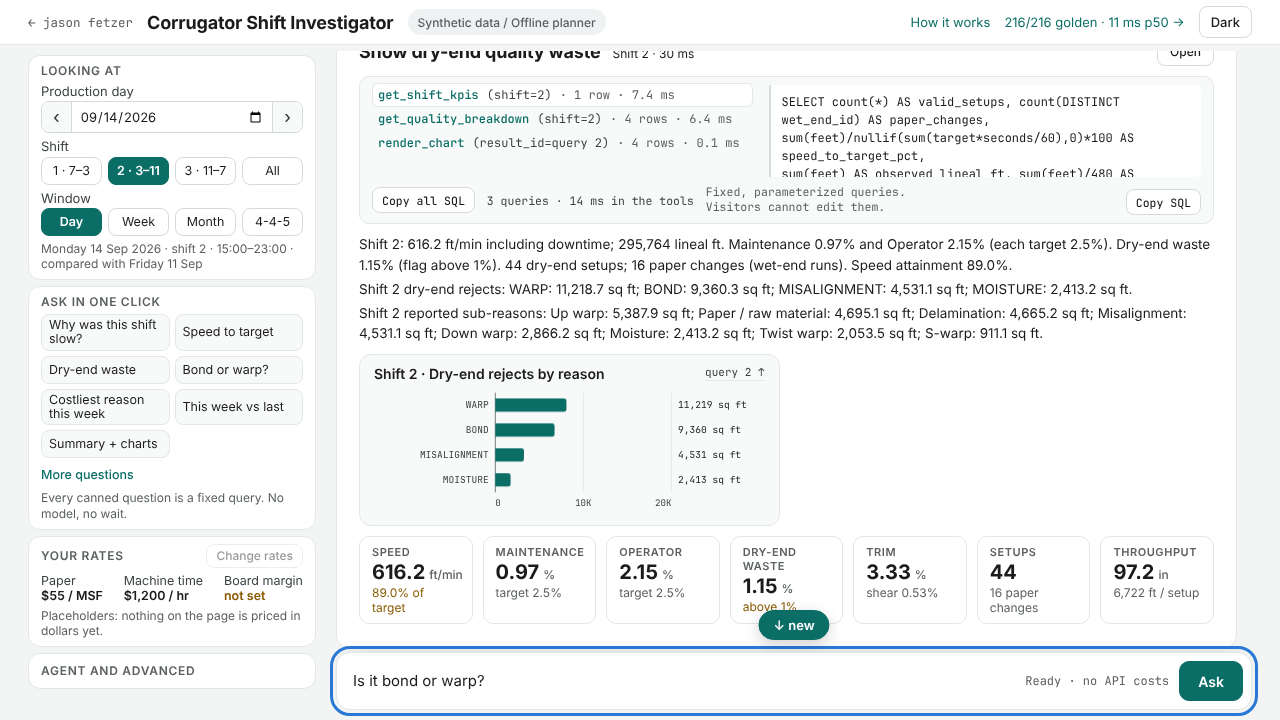
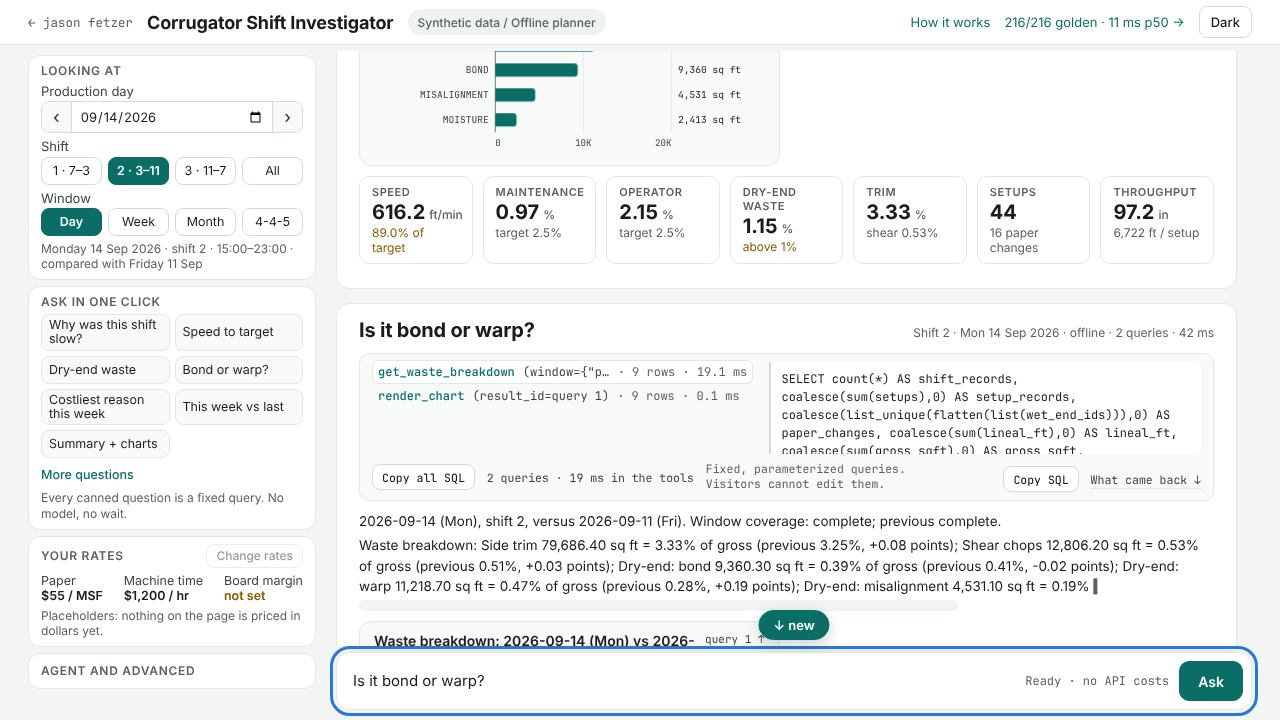
Chat flow review fixes: small scrolls stop the follow, reload within the rate limit (#86)
- Any move up stops the follow, so a trackpad's few-pixel steps are never
  pulled back; the pill comes once the reader is more than 80 px away and more
  has arrived, and scrolling back to within 80 px resumes. A unit case walks
  eight 15-px steps across frames; layout_check uses six small wheel notches.
- A reload replays only the newest cards (a quarter of the visitor's rate
  limit, at most 8): each replay is a URL answer the server counts. Older
  cards come back as title lines and load by GET when opened.
- An earlier card drawn into its own containers no longer schedules the
  page's trace, which drew the open card's trace twice when both shared a
  result (an analyst plan refused behind its source).
- Between 851 and 999 px wide the header drops the mode badge so it stays one
  row and the rail fits at 720 px tall.
- Tests assert one fetch per offline question (no new fetch on the hot path).

Claude-Session: https://claude.ai/code/session_01MaBwFArCywnfJvyhw3vUVx

diff --git a/src/investigator/web/app.js b/src/investigator/web/app.js
@@ -618,7 +618,7 @@ function showResult(result) {
  for(const entry of shiftKpis)shiftTiles(entry,result,shiftKpis.length>1);
  for(const table of result.tables||[])showTable(table);
  for(const chart of result.charts)showChart(chart);
- afterPaint(()=>{if(latest!==result)return;result.trace.forEach((entry,i)=>{const row=traceRow(entry);row.id=`step-${i}`;$('trace').append(row);});});   // a newer answer already replaced the evidence: skip
+ if(!slots)afterPaint(()=>{if(latest!==result)return;result.trace.forEach((entry,i)=>{const row=traceRow(entry);row.id=`step-${i}`;$('trace').append(row);});});   // a newer answer already replaced the evidence: skip. An earlier card drawn into its own containers has no trail (#86)
  $('calls').textContent=`${result.status?result.status+' · ':''}${usageText(result.usage)}`;
  const ctx=node('details',undefined,'trace-context');ctx.append(node('summary','Context carried to the next question'));ctx.append(node('pre',JSON.stringify(result.context,null,2)));$('context').replaceChildren(ctx);
  updateScope();
@@ -738,7 +738,7 @@ function renderEarlier(){
   const v=entryOf(rec);
   if(settled(rec)&&v.key!==bodyKey(rec))setBody(v,drawBody(rec),bodyKey(rec));
   v.line.className='card earlier'+(rec.state==='error'?' failed':'')+(v.body?' drawn':'');v.line.setAttribute('aria-label',`Earlier answer: ${rec.title}`);
-  v.title.textContent=rec.title;v.meta.textContent=`${entryWho(rec)} · ${rec.state==='pending'?'asking…':rec.state==='error'?'failed':msText(rec.ms)}`;
+  v.title.textContent=rec.title;v.meta.textContent=`${entryWho(rec)} · ${rec.state==='pending'?'asking…':rec.state==='error'?'failed':rec.state==='stored'?'not reloaded: Open loads it':msText(rec.ms)}`;
   v.open.setAttribute('aria-label',`Open the answer to: ${rec.title}`);
   lines.push(v.line);
  }
@@ -756,7 +756,7 @@ function syncPdf(){ if(latest)$('pdf').hidden=!latest.url&&latestRun.get(latest.
 // Opening a card: an addressed answer of the current scope puts its address in the bar and the conversation follows
 // it, so the next question is a follow-up of the card on screen. A card asked under another scope keeps the rail's
 // address: the rail, not the card, is what the address encodes.
-function openCard(rec){ openId=rec.id; renderCard(); scheduleFollow(true); if(rec.state==='done'&&rec.url&&rec.epoch===sessionEpoch){ followView(rec.url,!rec.report); pushAddress(rec.url); updateScope(); } }
+function openCard(rec){ if(rec.state==='stored')replayOne(rec);   /* a card kept but not reloaded (#86) loads when it is opened */ openId=rec.id; renderCard(); scheduleFollow(true); if(rec.state==='done'&&rec.url&&rec.epoch===sessionEpoch){ followView(rec.url,!rec.report); pushAddress(rec.url); updateScope(); } }
 function focusCard(){ try{$('card-title').focus?.({preventScroll:true});}catch(e){} }   // keyboard focus follows the card when the control that had it goes away; the pane's follow rule does the scrolling (#86)
 // A settled answer's own content, into the card's containers: the open card's, or an earlier card's own (#86).
 // Returns the summary the reveal paces, for an offline answer.
@@ -796,9 +796,10 @@ function renderCard(){
 // and only #transcript scrolls. The open card is the newest, at the bottom. While it fills (skeleton, landed answer,
 // reveal steps, streamed narrative), the pane follows it: its bottom sits at the pane's bottom while it fits, and once
 // it is taller than the pane its title line stays at the top, so the answer is read from its first word. The rule
-// never scrolls up on its own. A reader who scrolls up more than FOLLOW_SLACK px stops it; a "↓ new" pill then says
-// more arrived below, and clicking it, or scrolling back down, resumes following. Asking, or opening a card, always
-// brings the open card into view.
+// never scrolls up on its own, and never pulls a reader back down: any move up, however small (a trackpad scrolls in
+// steps of a few pixels), stops it. Once the reader is more than FOLLOW_SLACK px from the newest content and more has
+// arrived, a "↓ new" pill says so; clicking it, or scrolling back down to within FOLLOW_SLACK px, resumes following.
+// Asking, or opening a card, always brings the open card into view.
 const FOLLOW_SLACK=80, FOLLOW_GAP=12;
 let following=true, unseen=false, lastTop=0, followQueued=false, followForce=false, followFresh=false;
 function paneOf(){ const p=$('transcript'); return p&&typeof p.scrollTop==='number'&&typeof p.scrollHeight==='number'&&typeof p.clientHeight==='number'?p:null; }   // null in the unit tests' layout-less stub, unless a test gives it numbers
@@ -812,8 +813,8 @@ function syncPill(){ $('new-pill').hidden=following||!unseen; }
 function follow(force=false,fresh=true){
  const p=paneOf(); if(!p)return;
  if(force){ following=true; unseen=false; }
- if(!following){ if(fresh)unseen=true; syncPill(); return; }
  const target=followTarget(p);
+ if(!following){ if(fresh&&target-p.scrollTop>FOLLOW_SLACK)unseen=true; syncPill(); return; }
  if(force||p.scrollTop<target)p.scrollTop=target;
  lastTop=p.scrollTop; syncPill();
 }
@@ -825,14 +826,14 @@ function scheduleFollow(force=false,fresh=true){
  if(followQueued)return; followQueued=true;
  requestAnimationFrame(()=>{ followQueued=false; const f=followForce, n=followFresh; followForce=followFresh=false; follow(f,n); });
 }
-// Only a move up stops the following. A scroll event is dispatched a frame after the scroll, so by then a card may have
-// landed and moved the follow point: the event of our own scroll, or of the browser's scroll anchoring (which moves
-// down when content grows above), must not read as the reader leaving. A user's scroll event always runs before the
-// frame's follow step.
+// Only a move up stops the following; the distance to the follow point decides only when it resumes. A scroll event
+// is dispatched a frame after the scroll, so by then a card may have landed and moved the follow point: the event of
+// our own scroll, or of the browser's scroll anchoring (which moves down when content grows above), is not a move up
+// and must not read as the reader leaving. A user's scroll event always runs before the frame's follow step.
 function onPaneScroll(){
  const p=paneOf(); if(!p)return;
  const top=p.scrollTop, gap=followTarget(p)-top;
- if(top<lastTop&&gap>FOLLOW_SLACK)following=false;
+ if(top<lastTop){ following=false; if(gap<=FOLLOW_SLACK)unseen=false; }
  else if(gap<=FOLLOW_SLACK){ following=true; unseen=false; }
  lastTop=top; syncPill();
 }
@@ -1073,13 +1074,16 @@ function reset(){ thread=[];openId=null;renderCard();scheduleFollow(true);saveTh
 // analyst's card as the offline answer it was asked from) with its title line, in sessionStorage: this tab only, never
 // sent anywhere. On load the address bar's card is restore()'s, as before (#20); the cards above it are GETs of their
 // own addresses, never /api/ask, and land settled, in their order. A model's narrative is not kept or replayed: its
-// card comes back as the offline answer, with the analyst button.
-const THREAD_KEY='csi-thread', THREAD_MAX=24, REPLAYABLE=/^\/(corr\/|q\?)/;   // same-origin paths only
+// card comes back as the offline answer, with the analyst button. Each replay is an answer the server counts against
+// the visitor's rate limit, so a reload fetches only the newest few (a quarter of that limit, at most REPLAY_MAX); the
+// older cards come back as their title lines, and Open loads one.
+const THREAD_KEY='csi-thread', THREAD_MAX=24, REPLAY_MAX=8, REPLAYABLE=/^\/(corr\/|q\?)/;   // same-origin paths only
+function replayBudget(){ const limit=Number(config&&config.demo_guards&&config.demo_guards.rate_limit_per_min)||0; return limit>0?Math.min(REPLAY_MAX,Math.max(1,Math.floor(limit/4))):REPLAY_MAX; }
 function tabStore(){ try{ return typeof sessionStorage!=='undefined'&&sessionStorage?sessionStorage:null; }catch(e){ return null; } }
 function replayUrl(r){ return PROVIDERS[r.mode]?((r.source&&r.source.url)||r.askUrl):(r.url||r.askUrl); }
 function saveThread(){
  const store=tabStore(); if(!store)return;
- const cards=thread.map(r=>({url:replayUrl(r),title:r.title,question:r.question,scope:{day:r.scope.day,period:r.scope.period,shift:r.scope.shift,scope:r.scope.scope},corrupt:!!r.corrupt,report:!!r.report,analysed:!PROVIDERS[r.mode]&&!!r.analysed,ms:!PROVIDERS[r.mode]&&r.state==='done'?r.ms:null}))
+ const cards=thread.map(r=>({url:replayUrl(r),title:r.title,question:r.question,scope:{day:r.scope.day,period:r.scope.period,shift:r.scope.shift,scope:r.scope.scope},corrupt:!!r.corrupt,report:!!r.report,analysed:!PROVIDERS[r.mode]&&!!r.analysed,ms:PROVIDERS[r.mode]?null:r.state==='done'?r.ms:typeof r.keepMs==='number'?r.keepMs:null}))
   .filter(c=>typeof c.url==='string'&&REPLAYABLE.test(c.url)).slice(-THREAD_MAX);
  try{ if(cards.length)store.setItem(THREAD_KEY,JSON.stringify(cards)); else store.removeItem(THREAD_KEY); }catch(e){ /* storage full or blocked: the thread is a convenience */ }
 }
@@ -1089,19 +1093,26 @@ function storedThread(){
 }
 function sameScope(rec){ const s=currentScope(); return rec.scope.day===s.day&&rec.scope.period===s.period&&rec.scope.scope===s.scope&&Number(rec.scope.shift)===s.shift&&!!rec.corrupt===$('corrupt').checked; }
 function replayThread(cards){
- for(const c of cards){
-  const rec={id:++seq,question:typeof c.question==='string'?c.question:c.url,title:typeof c.title==='string'?c.title:c.url,scope:{day:c.scope.day,period:c.scope.period,shift:Number(c.scope.shift),scope:c.scope.scope},answered:null,mode:'offline',report:!!c.report,corrupt:!!c.corrupt,epoch:-1,source:null,state:'pending',t0:clock(),ms:null,keepMs:typeof c.ms==='number'?c.ms:null,result:null,error:null,note:null,url:null,live:null,revealed:true,analysed:!!c.analysed,askUrl:c.url};
+ const from=Math.max(0,cards.length-replayBudget());
+ cards.forEach((c,i)=>{
+  const rec={id:++seq,question:typeof c.question==='string'?c.question:c.url,title:typeof c.title==='string'?c.title:c.url,scope:{day:c.scope.day,period:c.scope.period,shift:Number(c.scope.shift),scope:c.scope.scope},answered:null,mode:'offline',report:!!c.report,corrupt:!!c.corrupt,epoch:-1,source:null,state:'stored',t0:clock(),ms:null,keepMs:typeof c.ms==='number'?c.ms:null,result:null,error:null,note:null,url:null,live:null,revealed:true,analysed:!!c.analysed,askUrl:c.url};
   thread.push(rec);
-  rec.done=(async()=>{
-   try{
-    const response=await fetch(c.url,{headers:{Accept:'application/json'}}), result=await response.json();
-    if(!response.ok)throw new Error(result.error||'Request failed');
-    rec.url=result.url||null; if(rec.url&&sameScope(rec))rec.epoch=sessionEpoch;   // a card of the rail's scope opens into the conversation, as it did before the reload
-    land(rec,result);
-   }catch(error){ rec.error=error.message; rec.state='error'; settleCard(rec); }
-  })();
- }
+  if(i>=from)replayOne(rec);
+ });
  if(cards.length)renderEarlier();
+}
+function replayOne(rec){
+ rec.state='pending'; rec.t0=clock();
+ rec.done=(async()=>{
+  try{
+   const response=await fetch(rec.askUrl,{headers:{Accept:'application/json'}}), result=await response.json();
+   if(!response.ok)throw new Error(result.error||'Request failed');
+   rec.url=result.url||null; if(rec.url&&sameScope(rec))rec.epoch=sessionEpoch;   // a card of the rail's scope opens into the conversation, as it did before the reload
+   land(rec,result);
+   if(openId===rec.id&&rec.url&&rec.epoch===sessionEpoch){ followView(rec.url,!rec.report); pushAddress(rec.url); updateScope(); }   // opened while it loaded
+  }catch(error){ rec.error=error.message; rec.state='error'; settleCard(rec); }
+ })();
+ return rec.done;
 }
 $('mode').addEventListener('change',()=>{rescope();const p=provider();syncKeyLabel();$('api-key').value='';$('mode-badge').textContent=p?`Synthetic data / ${p.name} selected`:'Synthetic data / Offline planner';$('mode-help').textContent=p?(config&&config.public?`Public demo: Ask the analyst has ${p.name} choose which bounded tools to run and writes the interpretation with this site's own key under a spend cap; no visitor key is accepted. Ask and the canned questions stay offline.`:`${p.name} receives your question, bounded history and synthetic tool results. Your key passes through this local server to ${p.name} for this request, is not saved, and the field clears on submit. Live calls incur API charges. Ask and the canned questions stay offline.`):'Offline mode uses a rule-based planner for the supported example questions. No model calls or API charges.';});
 $('reset').addEventListener('click',reset);$('day').addEventListener('change',dayChanged);$('day-prev').addEventListener('click',()=>stepDay(-1));$('day-next').addEventListener('click',()=>stepDay(1));$('corrupt').addEventListener('change',rescope);$('shift').addEventListener('change',rescope);$('scope').addEventListener('change',rescope);$('period').addEventListener('change',periodChanged);

diff --git a/src/investigator/web/style.css b/src/investigator/web/style.css
@@ -404,6 +404,7 @@ footer{margin-top:48px;padding-top:18px;border-top:1px solid var(--rule);font-fa
  td,th{min-width:80px}
 }
 @media(min-width:851px) and (max-width:1179px){.rail{flex-basis:264px}.shell{padding:16px 16px 40px;gap:16px}.shell-page .shell{padding:12px 16px max(12px,env(safe-area-inset-bottom,0px))}}
+@media(min-width:851px) and (max-width:999px){.shell-page .badge{display:none}}   /* the header stays one row, as on a phone; the rail's mode note says the same (#86) */
 @media(prefers-reduced-motion:no-preference){.answer.skeleton .skel,.answer.skeleton .skel-chart{animation:skel 1.1s ease-in-out infinite alternate}}
 @keyframes skel{from{opacity:1}to{opacity:.55}}
 @media(prefers-reduced-motion:no-preference){button{transition:filter .15s}}

diff --git a/docs/TESTING.md b/docs/TESTING.md
@@ -26,7 +26,7 @@ The implementation follow-up passed 106 backend tests plus UI, syntax and whites
 | `test_openai_provider.py` | Scripted provider responses, schema/payload handling, key hygiene, time/call limits and budget reservations |
 | `test_server.py` | Local HTTP protections, daily round trip, retained-report access, control references, `/api/config` calendar fields, weekend and out-of-range day refusals; the URL path (issue #20): `GET /q` redirects to the canonical address, which answers as the page, as `.json` and as a PDF with the same guards and no session, refuses like the POST path, carries follow-ups (`after=`), the period report and the bad record, and counts against the request window |
 | `test_urls.py` | The URL grammar: every golden question round-trips through its canonical address to an identical answer, the address is idempotent, the issue's example shapes resolve, every measure has a meaning or the router's refusal under every grain and scope, what the grammar refuses and why, and `after=` rebuilding the follow-up history |
-| `test_ui.cjs` | DOM-stub rendering, direct density colors and the deep-cell ink flip, day detail events, legend, reset and controls, the light-by-default theme and the pinned toggle (issue #36), the query box first below the question and in the first paint with the per-step data deferred, its copy text equal to the SQL with bound values, the links between boxes, charts, tables and steps, and one line per step at phone width (issue #40); the address bar as the state (issue #20): offline questions as `GET /q`, `pushState` of the answer's address, back/forward reopening a shown card without a request, a pasted address setting the controls and landing in a card, canned questions as links, the PDF by address; the layout shell (issue #63): rail / ask bar / card order, the skeleton in the same task as the submit, the measured ms on the title line with the server's time on its tooltip, the card's window from the tool's own `window.label`, three cards from three questions with nothing disabled, a pending analyst twin sent once, Ask always offline and canned questions always offline; the reveal (issue #65), with a stubbed clock and frame scheduler over the real why-slow answer (`tests/ui_fixtures/why_slow.json`, kept in step with its golden URL by `test_ui_fixtures.py`): the skeleton in the submit task, query lines ticking in, the first figure by 400 ms from the submit for an answer that lands at 40, 300 or 500 ms, word-chunked typing, charts blooming after the first sentence, the full summary by 1.5 s and equal to the sections verbatim, a key skipping to the end, reduced motion showing everything at once, the measured ms unchanged; the chat flow (issue #86), with the pane and card given scroll numbers by hand: no page scroll, the open card followed while it fills (its bottom at the pane's bottom while it fits, its title line at the top once taller), a scroll up of more than 80 px stopping the follow and the **↓ new** pill appearing when more arrives, the pill or a scroll back down resuming it, a late scroll event after a card landed above not read as the reader leaving, the pane never scrolling up on its own, asking always bringing the new card into view, earlier cards kept whole with their own query ids and links, Enter / Shift+Enter / an IME's Enter / `/`, nothing disabled during a reveal, and a reload replaying the stored thread as GETs of the cards' own addresses (never `/api/ask`, never another origin) with the analyst's card back as its offline answer |
+| `test_ui.cjs` | DOM-stub rendering, direct density colors and the deep-cell ink flip, day detail events, legend, reset and controls, the light-by-default theme and the pinned toggle (issue #36), the query box first below the question and in the first paint with the per-step data deferred, its copy text equal to the SQL with bound values, the links between boxes, charts, tables and steps, and one line per step at phone width (issue #40); the address bar as the state (issue #20): offline questions as `GET /q`, `pushState` of the answer's address, back/forward reopening a shown card without a request, a pasted address setting the controls and landing in a card, canned questions as links, the PDF by address; the layout shell (issue #63): rail / ask bar / card order, the skeleton in the same task as the submit, the measured ms on the title line with the server's time on its tooltip, the card's window from the tool's own `window.label`, three cards from three questions with nothing disabled, a pending analyst twin sent once, Ask always offline and canned questions always offline; the reveal (issue #65), with a stubbed clock and frame scheduler over the real why-slow answer (`tests/ui_fixtures/why_slow.json`, kept in step with its golden URL by `test_ui_fixtures.py`): the skeleton in the submit task, query lines ticking in, the first figure by 400 ms from the submit for an answer that lands at 40, 300 or 500 ms, word-chunked typing, charts blooming after the first sentence, the full summary by 1.5 s and equal to the sections verbatim, a key skipping to the end, reduced motion showing everything at once, the measured ms unchanged; the chat flow (issue #86), with the pane and card given scroll numbers by hand: no page scroll, the open card followed while it fills (its bottom at the pane's bottom while it fits, its title line at the top once taller), any scroll up stopping the follow (small trackpad steps across frames are never pulled back) and the **↓ new** pill appearing once more than 80 px away when more arrives, the pill or a scroll back down to within 80 px resuming it, a late scroll event after a card landed above not read as the reader leaving, the pane never scrolling up on its own, asking always bringing the new card into view, earlier cards kept whole with their own query ids and links, Enter / Shift+Enter / an IME's Enter / `/`, nothing disabled during a reveal, an offline question costing exactly one request (no new fetch on the hot path), and a reload replaying the stored thread as GETs of the cards' own addresses (never `/api/ask`, never another origin) with the analyst's card back as its offline answer, within a quarter of the visitor's rate limit (older cards as title lines that load on Open) |
 | `layout_check.cjs` | optional, headless Chromium against a running server: the 1440×1040 fit, side-by-side charts, the phone column, and the chat flow at 1280×720 and 390×844 (see below) |
 | `test_evalboard.py` | The `/evals` page (issue #26): every golden case listed exactly once, counts and badge equal to the newest `history.jsonl` line, `last_run.json` in step with it, plain-words expectations for every `expect` key in use, one-case and whole-set runs, recorded cases replayed with every provider transport patched to fail, POST protections, the image layout (`INVESTIGATOR_EVALS`) and a build without the set |
 | `test_synth_determinism.py` | Same seed gives byte-identical record families; the pinned content hash of the default two months |
@@ -56,7 +56,7 @@ python -m investigator.server --port 7860 &
 node tests/layout_check.cjs http://127.0.0.1:7860/ [screenshot-dir]
 ```
 
-It asserts, at 1440×1040 with "Why was this shift slow?" answered, that `#messages` and the second chart end inside the visible transcript pane with no page scroll, that the two charts sit side by side, and that the tiles and the footer fit in the pane and the rail in the window; that the skeleton card exists in the task of the click; that three canned questions in quick succession leave one open card and two earlier cards with no navigation, no disabled control, the open card in view and no **↓ new** pill; and, at 390×844, that the page is one column with the rail behind **Questions**. Then, at 1280×720 and at 390×844, three questions typed into the ask bar and sent with Enter: the page never scrolls, the ask bar and the rail keep their exact rectangles, the rail has no scroll of its own at 1280×720, each answer's title line is inside the pane when it finishes, the pane's scroll moved down with each, the offline time on the title line stays two digits, and focus stays in the ask bar; a wheel scroll up during a fourth answer's reveal brings up the pill and clicking it lands on that answer; and a reload restores the three cards above the addressed one with four `/corr/…` fetches and no `/api/ask`. The renders it writes are kept in `docs/design/2026-11-09-ask-and-answer/built/` beside the mockup they are compared with.
+It asserts, at 1440×1040 with "Why was this shift slow?" answered, that `#messages` and the second chart end inside the visible transcript pane with no page scroll, that the two charts sit side by side, and that the tiles and the footer fit in the pane and the rail in the window; that the skeleton card exists in the task of the click; that three canned questions in quick succession leave one open card and two earlier cards with no navigation, no disabled control, the open card in view and no **↓ new** pill; and, at 390×844, that the page is one column with the rail behind **Questions**. Then, at 1280×720 and at 390×844, three questions typed into the ask bar and sent with Enter: the page never scrolls, the ask bar and the rail keep their exact rectangles, the rail has no scroll of its own at 1280×720, each answer's title line is inside the pane when it finishes, the pane's scroll moved down with each, the offline time on the title line stays two digits, each question is exactly one fetch (its `/q` GET), and focus stays in the ask bar; six small wheel notches up during a fourth answer's reveal each move the pane up and stay, the pill comes up, and clicking it lands on that answer; and a reload restores the three cards above the addressed one with four `/corr/…` fetches and no `/api/ask`. The renders it writes are kept in `docs/design/2026-11-09-ask-and-answer/built/` beside the mockup they are compared with.
 
 ## Browser acceptance walkthrough
 

diff --git a/docs/WORKBENCH.md b/docs/WORKBENCH.md
@@ -17,8 +17,8 @@ The page is the layout accepted in [`docs/design/2026-11-09-ask-and-answer/`](de
 - **The rail.** *Looking at* holds the whole selection: a **Production day** date with ‹ › steppers (weekends are skipped), **Shift** as buttons (1 · 7–3 / 2 · 3–11 / 3 · 11–7 / All — "All" is the 24-hour scope) and **Window** as buttons (Day / Week / Month / 4-4-5). A plain-English scope sentence under them reads the selection back, for example "Monday 14 Sep 2026 · shift 2 · 15:00–23:00 · compared with Friday 11 Sep", and says when a comparison is withheld because nothing earlier exists in the store. *Ask in one click* lists the canned questions (seven, the rest under **More questions**; the per-shift matrices are hidden under Week, Month and 4-4-5, where the **Period report** button appears). A canned question always runs the offline planner: a fixed query, no model, no wait. *Your rates* is a static placeholder until the cost model (issue #31). **Agent and advanced** is a disclosure holding the agent select (Offline / free by default, OpenAI / your key, Anthropic / your key), the key field, the "Include a bad trim record" toggle and **Clear the thread**.
 - **The ask bar.** Pinned at the bottom of the main column, always on screen. One box and **Ask**, which always runs the offline planner, whatever the agent select says. **Enter** sends, **Shift+Enter** starts a new line (the box grows to about six lines), focus stays in the box after a send, and **/** focuses it from anywhere outside another field. **Ask the analyst** is the only live path: it appears when the server has its own key for a live mode (or when you chose a provider and typed your key, locally), and sends the typed question to that model once. Clicking it twice while the question is out is the same card, not a second paid round.
 - **The answer card.** A title line — the question, then `Shift 2 · Mon 14 Sep 2026 · offline · 6 queries · 39 ms`, where the milliseconds are the measured wall time from the submit to the rendered card (the tooltip adds the server's own time in the queries), and the shift and window are the ones the first windowed query actually ran over: "How did September go versus August?" asked with the rail on Mon 14 Sep reads `All shifts · September 2026 (2026-09-01 to 2026-09-30)` — then the query box, the summary, the charts side by side, the KPI tiles, and a footer with the exports (**Markdown**, **PDF**) and "What came back, per query". A skeleton card appears in the same instant as the submit and the answer fills it in place, revealed in the order of the reasoning (issue #65): the query lines tick in about 80 ms apart, the summary types word by word at reading speed (faster for a long answer, so it is all there by about 1.5 s) with its first figure landing at once, inside 400 ms of the submit (the bar is counted from the submit, not the land: an answer that lands late shortens the wait before typing, and one that lands after 400 ms shows its first figure on its first frame), and the charts' bars grow from zero once the first sentence is down; the KPI tiles and tables are there from the first frame. The pacing only replays the finished result: each paragraph shows a prefix of its own text and ends as exactly that text. A click or any key skips to the end, `prefers-reduced-motion: reduce` shows everything at once, a card reopened from the thread, or one that landed while another card was open, is shown settled, and the milliseconds on the title line are the time to the complete result, not to the end of the reveal; nothing on the page is disabled while a question is out. Questions asked in quick succession each get their card at once and are sent to the server one at a time, in order, so every follow-up carries the conversation the one before it left. At 1440×1040 the open card fits without scrolling. An offline answer's address goes in the address bar when it lands ([URLS](URLS.md)); back and forward reopen a card the page has shown without a request, and a pasted address sets the rail and lands in a new card.
-- **The transcript** (issue #86). The open card is the newest, at the bottom, right above the ask bar; earlier answers sit above it, oldest at the top, each still the whole card (query box, summary, charts, tiles) under a title line with an **Open** button. Nothing is collapsed when a new question arrives: older cards move up. **Open** makes an earlier card the open one again, at the bottom, with its address, its exports and the full result of each query. While the open card fills (the skeleton, the landed answer, the reveal, a streamed analyst narrative) the pane follows it: its bottom stays at the pane's bottom while it fits, and once it is taller than the pane its title line stays at the top, so the answer is read from its first word. Scroll up more than about 80 px and the pane stops following; a **↓ new** pill appears when more arrives below, and clicking it, or scrolling back down, resumes. The pane never scrolls up on its own, and asking a question always brings the new card into view. The rail and the ask bar never move; the rail scrolls on its own only if it is taller than the window, which at 1280×720 it is not (on windows under 1080 px tall it packs tighter, and under 830 px the canned questions sit two to a row).
-- **Reload.** The thread survives a reload of the tab. The address bar's card comes back from its address as before; the cards above it are kept in this tab's `sessionStorage` as their own offline addresses and replayed as GETs of those addresses, never `/api/ask`, in their order and settled. A card the analyst wrote comes back as the offline answer it was asked from, with the **Ask the analyst** button: a model's narrative is never stored or replayed. **Clear the thread** empties it.
+- **The transcript** (issue #86). The open card is the newest, at the bottom, right above the ask bar; earlier answers sit above it, oldest at the top, each still the whole card (query box, summary, charts, tiles) under a title line with an **Open** button. Nothing is collapsed when a new question arrives: older cards move up. **Open** makes an earlier card the open one again, at the bottom, with its address, its exports and the full result of each query. While the open card fills (the skeleton, the landed answer, the reveal, a streamed analyst narrative) the pane follows it: its bottom stays at the pane's bottom while it fits, and once it is taller than the pane its title line stays at the top, so the answer is read from its first word. Any scroll up, however small, stops the following (the pane never pulls you back down); once you are more than about 80 px from the newest content and more arrives, a **↓ new** pill appears, and clicking it, or scrolling back down to within 80 px, resumes. The pane never scrolls up on its own, and asking a question always brings the new card into view. The rail and the ask bar never move; the rail scrolls on its own only if it is taller than the window, which at 1280×720 it is not (on windows under 1080 px tall it packs tighter, and under 830 px the canned questions sit two to a row; between 851 and 999 px wide the header drops the mode badge, as on a phone, so it stays one row).
+- **Reload.** The thread survives a reload of the tab. The address bar's card comes back from its address as before; the cards above it are kept in this tab's `sessionStorage` (up to 24) as their own offline addresses and replayed as GETs of those addresses, never `/api/ask`, in their order and settled. Each replay counts against the visitor's rate limit like any answer, so a reload fetches only the newest few (a quarter of `DEMO_RATE_LIMIT_PER_MIN` when it is set, at most 8); older cards come back as their title lines ("not reloaded: Open loads it"). A card the analyst wrote comes back as the offline answer it was asked from, with the **Ask the analyst** button: a model's narrative is never stored or replayed. **Clear the thread** empties it.
 - **Phone.** One column: the header, the transcript, and the ask bar pinned at the bottom (above the on-screen keyboard where the browser supports `interactive-widget=resizes-content`); the rail opens as a sheet from the **Questions** button. The follow rule and the pill are the same.
 
 The page is light by default, whatever the operating system prefers (issue #36); the **Dark** / **Light** button in the header pins a theme in this browser's localStorage, and that choice wins on later visits.

diff --git a/docs/URLS.md b/docs/URLS.md
@@ -124,7 +124,9 @@ does the same on load. Follow-up context is the `after=` chain the page builds f
 answer is a link to `…&format=pdf`. Live mode keeps the session and the POST. On a reload of the tab the
 thread above the addressed card comes back the same way (issue #86): each card is kept in `sessionStorage` as
 its own address (an analyst's card as the offline address it was asked from) and fetched again as JSON;
-only same-origin `/corr/…` and `/q?…` paths are replayed.
+only same-origin `/corr/…` and `/q?…` paths are replayed. Each replay counts against the request limits like any
+URL answer, so a reload fetches only the newest few cards (a quarter of the per-visitor limit, at most 8) and
+the older ones load when opened.
 
 ## Room left in the grammar
 
